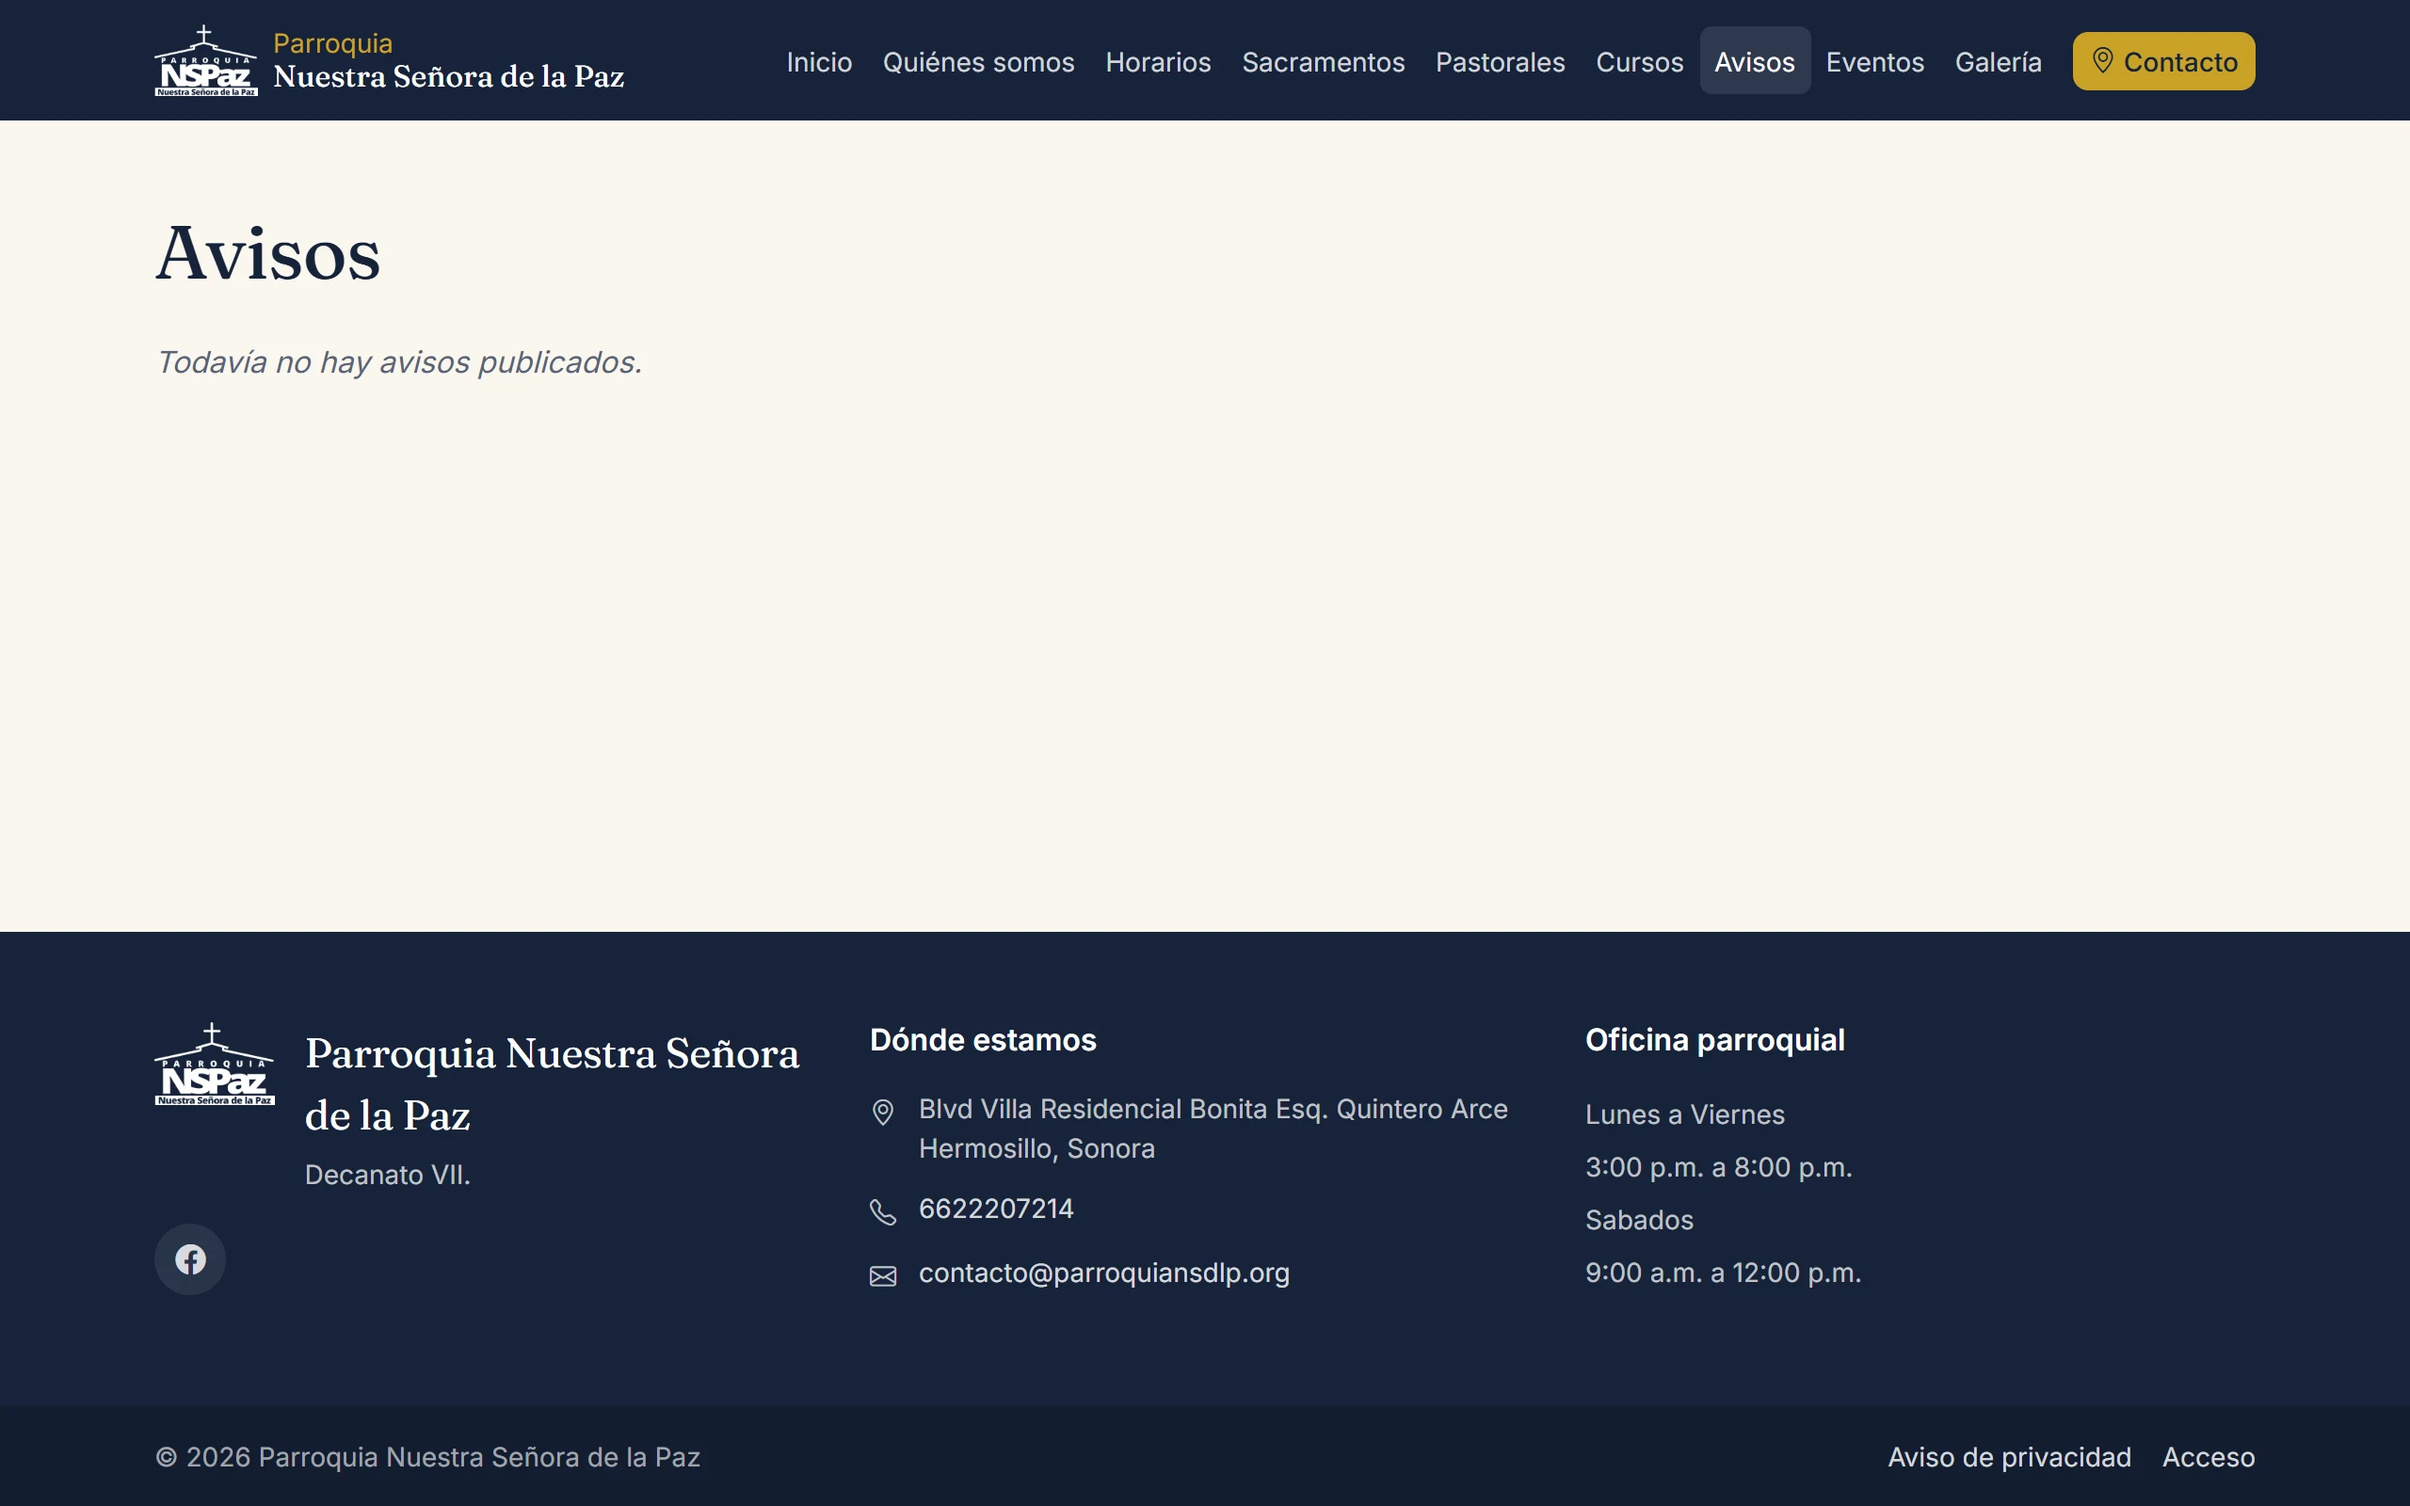
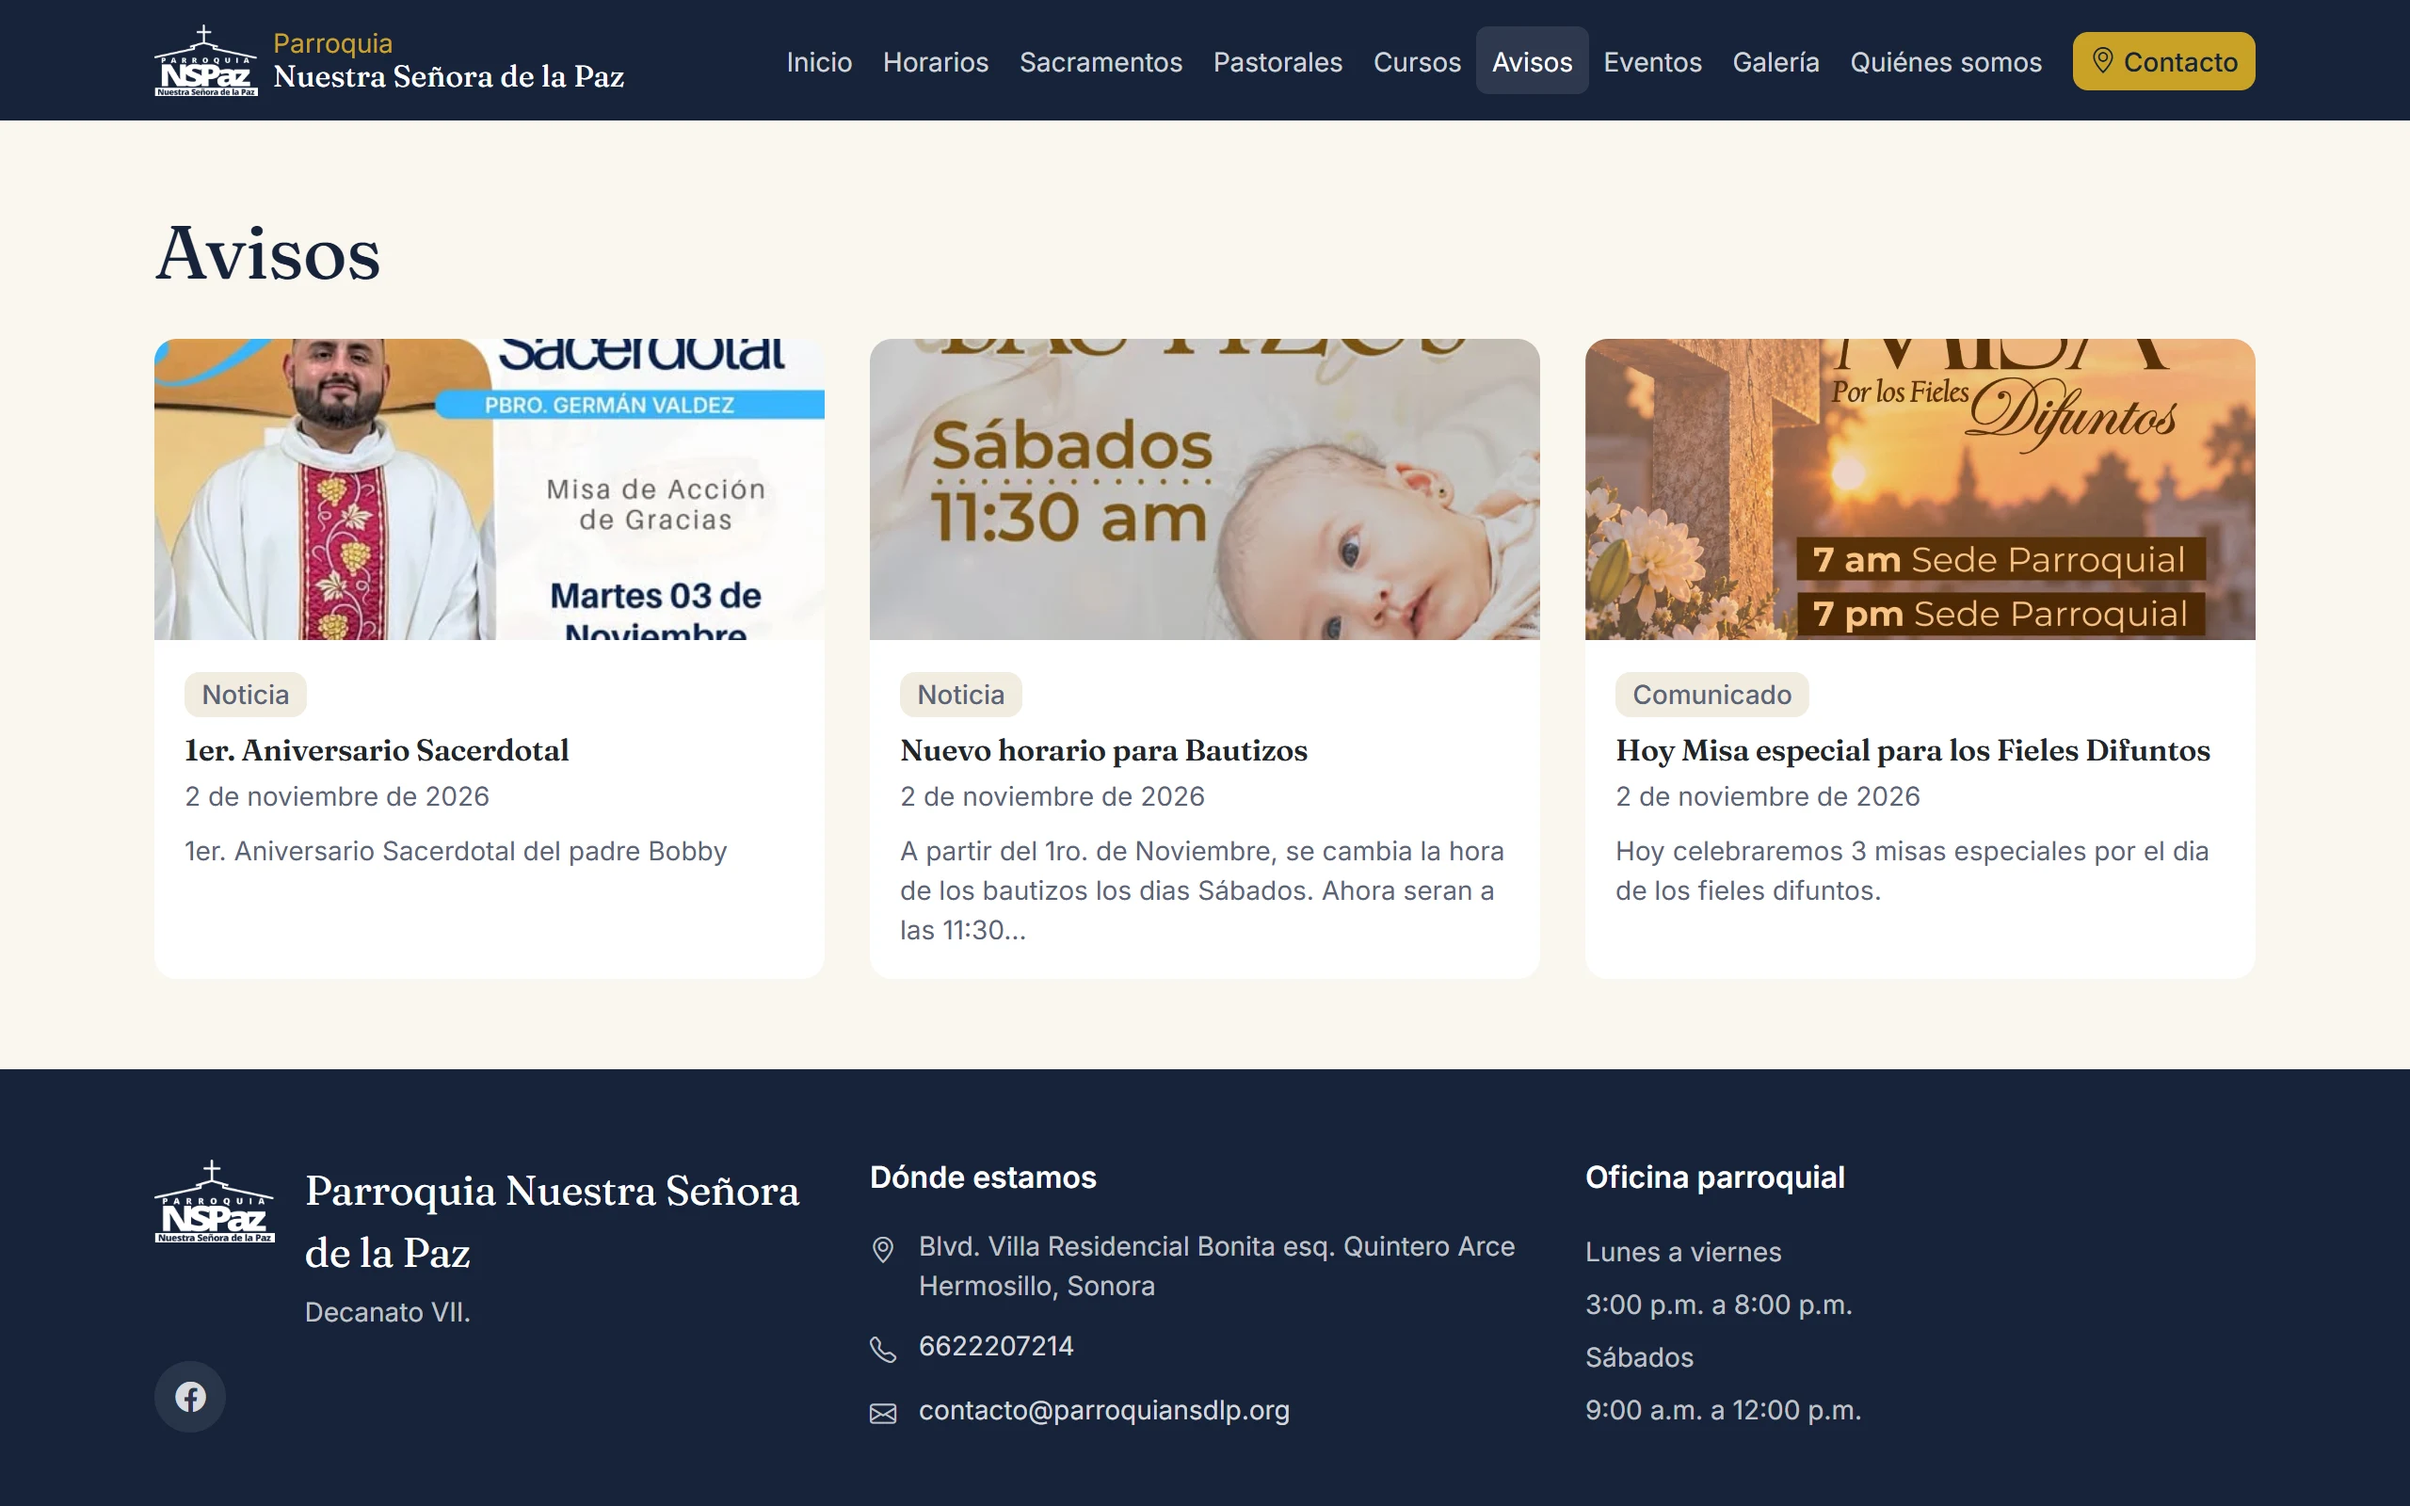
Manual: el editor con imágenes y los avisos en la cabecera
- Cap. 19: sección nueva «El editor de texto», con su barra y los pasos
  para insertar una imagen (formatos, 4 MB, descripción, qué hacer si el
  botón no responde).
- Cap. 1: el recuadro de avisos de la cabecera, con su captura; la franja
  de abajo ya no lleva avisos; la imagen del aviso abierto se ve completa.
- Cap. 5: la imagen del aviso (miniatura en la portada, completa al
  abrirlo, en el sitio y en el panel) y el contenido con imágenes.
- Capturas nuevas: publico-inicio-avisos, y al día publico-inicio,
  publico-inicio-completa y publico-avisos. Word y PDF regenerados.
- capturas_manual.js: una página completa más alta que el límite de WebP
  (16 383 px) salía como archivo de 0 bytes sin error; ahora se toma a
  resolución normal y una captura vacía detiene el guion.
- El recuadro de avisos ya no carga sus miniaturas en diferido: está
  arriba de todo y la última llegaba tarde.

diff --git a/herramientas/capturas_manual.js b/herramientas/capturas_manual.js
@@ -334,12 +334,31 @@ async function capturar(page, pantalla) {
     if (FORMATO === 'webp') { opciones.quality = 88; }
     if (pantalla.completa)  { opciones.fullPage = true; }
 
+    // WebP no admite imágenes de más de 16 383 píxeles por lado: una página
+    // completa más alta que eso a doble resolución sale como un archivo de
+    // 0 bytes, sin error. La portada pasó de ese alto en noviembre de 2026.
+    // En ese caso esa captura se toma a resolución normal.
+    const LIMITE_WEBP = 16383;
+    let ventanaAjustada = false;
+    if (pantalla.completa && FORMATO === 'webp') {
+        const alto = await page.evaluate(() => document.documentElement.scrollHeight);
+        if (alto * VENTANA.deviceScaleFactor > LIMITE_WEBP) {
+            await page.setViewport({ ...VENTANA, deviceScaleFactor: 1 });
+            ventanaAjustada = true;
+        }
+    }
+
     if (pantalla.recorte) {
         const elemento = await page.$(pantalla.recorte);
         if (!elemento) { throw new Error('No se encontró el recorte ' + pantalla.recorte); }
         await elemento.screenshot(opciones);
     } else {
         await page.screenshot(opciones);
+    }
+
+    if (ventanaAjustada) { await page.setViewport(VENTANA); }
+    if (fs.statSync(destino).size === 0) {
+        throw new Error('La captura salió vacía: ' + destino);
     }
 
     // Para deshacer lo que la pantalla haya dejado montado —una impersonación,

diff --git a/herramientas/capturas_manual_pantallas.js b/herramientas/capturas_manual_pantallas.js
@@ -162,6 +162,25 @@ module.exports = [
         recorte: '#horarios',
     },
     {
+        // La cabecera con el recuadro de avisos (lema, presentación y avisos
+        // con su miniatura). Las columnas entran con una animación de
+        // aparición: se dejan ya en su sitio antes de disparar.
+        id: 'publico-inicio-avisos',
+        titulo: 'El recuadro de avisos en la cabecera de la portada',
+        url: '/',
+        sesion: 'publico',
+        espera: '.portada-texto',
+        recorte: '.portada-texto',
+        antes: async (page) => {
+            await page.evaluate(() => document.querySelectorAll('.aparece').forEach((e) => {
+                e.style.animation = 'none';
+                e.style.opacity = '1';
+                e.style.transform = 'none';
+                e.style.filter = 'none';
+            }));
+        },
+    },
+    {
         id: 'publico-menu',
         titulo: 'Menú del sitio',
         url: '/',

diff --git a/modules/inicio/views/publico/avisos_portada.php b/modules/inicio/views/publico/avisos_portada.php
@@ -28,7 +28,7 @@ $iconosTipo = [
             <a href="<?= e(url_publica('avisos', ['slug' => $aviso['slug']])) ?>" class="aviso-mini">
                 <?php if (!empty($aviso['imagen'])): ?>
                 <img src="<?= e(url_activo($aviso['imagen'])) ?>" alt="" class="aviso-mini-foto"
-                     width="64" height="64" loading="lazy" decoding="async">
+                     width="64" height="64" decoding="async">
                 <?php else: ?>
                 <span class="aviso-mini-foto aviso-mini-icono" aria-hidden="true">
                     <i class="bi <?= e($iconosTipo[$aviso['tipo']] ?? 'bi-megaphone') ?>"></i>

diff --git a/docs/manual/01-el-sitio-publico.md b/docs/manual/01-el-sitio-publico.md
@@ -46,17 +46,30 @@ sencillamente no aparece, sin dejar hueco. De arriba abajo:
 Campana al fondo. Debajo, a todo lo ancho y en letra grande, el lema *Una
 comunidad en camino hacia la santidad*, y bajo él dos columnas: a la izquierda
 el decanato, la arquidiócesis y las sedes de la parroquia («Una parroquia, tres
-sedes: Villa Bonita, San Pío y Jesús el Señor»); a la derecha una presentación
+sedes: Villa Bonita, San Pío y Jesús el Señor»); en medio una presentación
 breve y dos botones, **Ver horarios de misa** y **Requisitos de sacramentos**,
-que bajan a esas franjas de la misma portada.
+que bajan a esas franjas de la misma portada; y a la derecha el recuadro de
+**Avisos**.
+
+![El recuadro de avisos en la cabecera de la portada](img/publico-inicio-avisos.webp)
+
+**El recuadro de avisos.** Los cuatro avisos más recientes que estén publicados
+en el sitio y vigentes, cada uno con una miniatura de su imagen como referencia
+—o el ícono de su tipo, si no tiene—, su fecha y su título. Al tocar cualquiera
+se abre el aviso completo, y arriba del recuadro está **Ver todos**. Es lo
+primero que se lee al entrar, así que es el lugar de lo urgente: un cambio de
+horario, una misa especial. Cuando no hay ningún aviso vigente, el recuadro no
+aparece y la cabecera vuelve a sus dos columnas. En el celular, el recuadro
+baja debajo de los botones.
 
 La presentación de esa cabecera es la del bloque **Presentación**: mientras esté
 vacío, sale un texto de bienvenida fijo. En cuanto se sube al menos una
 diapositiva al carrusel, ese espacio se convierte en un carrusel de fotos que
-van pasando solas, y las próximas misas bajan justo debajo.
+van pasando solas, y las próximas misas y el recuadro de avisos bajan justo
+debajo, lado a lado.
 
-> **Se llena desde:** Contenido → Textos del sitio (Presentación) y Comunicación →
-> Carrusel. Las sedes, desde Parroquia → Sede y centros.
+> **Se llena desde:** Contenido → Textos del sitio (Presentación), Comunicación →
+> Avisos y Comunicación → Carrusel. Las sedes, desde Parroquia → Sede y centros.
 
 **Próximas misas.** Al pie de la cabecera, las tres siguientes, calculadas desde
 los horarios cargados y siempre en hora de Hermosillo —lo dice una nota al
@@ -120,12 +133,12 @@ uno con su día en un recuadro, el horario y la sede. Los de la fiesta patronal
 
 > **Se llena desde:** Comunicación → Eventos.
 
-**Cursos, avisos y Facebook.** Los **Próximos cursos**, los tres **Avisos
-recientes** publicados en el sitio, las publicaciones recientes de la página de
-Facebook de la parroquia —tal cual las muestra Facebook, sin copiar nada a
-mano— y las **Ligas de interés**.
+**Cursos y Facebook.** Los **Próximos cursos**, las publicaciones recientes de
+la página de Facebook de la parroquia —tal cual las muestra Facebook, sin
+copiar nada a mano— y las **Ligas de interés**. Los avisos ya no van aquí:
+subieron al recuadro de la cabecera.
 
-> **Se llena desde:** Comunicación → Cursos, Comunicación → Avisos,
+> **Se llena desde:** Comunicación → Cursos,
 > Administración → Configuración (la dirección de Facebook) y Contenido →
 > Textos del sitio (Ligas de interés).
 
@@ -272,7 +285,9 @@ correo ni se pierden.
 
 Los avisos publicados, en tarjetas, del más reciente al más viejo, con su
 imagen, su tipo, su fecha y las primeras líneas. Al entrar a uno se lee
-completo.
+completo, y su imagen se ve **entera, sin recortar**: nunca más alta que la
+pantalla, así que un cartel vertical cabe completo. Al tocarla se abre en su
+tamaño original. Los más recientes salen también en el recuadro de la portada.
 
 Aquí hay algo importante que el capítulo de Avisos explica a fondo: **no todo
 aviso llega a esta página**. Una pastoral puede publicar un aviso solo hacia

diff --git a/docs/manual/05-avisos.md b/docs/manual/05-avisos.md
@@ -59,7 +59,8 @@ aparece.
   del contenido, así que no es obligatorio pero casi siempre queda mejor
   escribirlo.
 - **Contenido.** El aviso completo, con el editor de texto: negritas, listas,
-  enlaces.
+  enlaces y también imágenes dentro del texto, con el botón **Insertar imagen**
+  (ver el capítulo 19).
 
 ### Lo que decide dónde aparece
 
@@ -91,8 +92,12 @@ aparece.
 
 ### Lo demás
 
-- **Imagen.** La foto de la tarjeta, en el listado del sitio y en el tablón del
-  panel. Si no pones ninguna, se dibuja un fondo con el título.
+- **Imagen.** La foto del aviso. Sale en la tarjeta del listado del sitio, en
+  el tablón del panel y, en miniatura, en el recuadro de avisos de la portada.
+  Al abrir el aviso se ve **completa, sin recortar** y sin pasar del alto de la
+  pantalla, así que sirve igual un cartel vertical que una foto apaisada. Si no
+  pones ninguna, la tarjeta dibuja un fondo con el título y la miniatura de la
+  portada, el ícono del tipo de aviso.
 - **Boletín en PDF.** Solo para los de tipo boletín: el archivo que la gente
   descarga. Al editar aparece un enlace para verlo y una palomita para
   quitarlo.
@@ -112,12 +117,17 @@ Según el escalón:
   la pastoral es una **comisión**, les llega también a las pastorales que
   agrupa.
 - **En la página:** además de lo anterior, sale en la sección Avisos del sitio
-  y, si es de los más recientes, en la portada.
+  y, si está entre los cuatro más recientes, en el **recuadro de avisos de la
+  cabecera de la portada**, lo primero que se ve al entrar. Ahí se queda
+  mientras esté vigente: al pasar su fecha «visible hasta» se retira solo.
+
+![El recuadro de avisos en la cabecera de la portada](img/publico-inicio-avisos.webp)
 
 ## Leer un aviso
 
-Desde el listado, el botón del ojo abre el aviso completo, con su imagen, su
-estado y, si ya está en el sitio, un enlace para verlo ahí. Abrirlo es lo que
+Desde el listado, el botón del ojo abre el aviso completo, con su imagen
+entera —igual que la ve el visitante; al tocarla se abre en tamaño original—,
+su estado y, si ya está en el sitio, un enlace para verlo ahí. Abrirlo es lo que
 lo marca como leído para ti: baja tu contador de la campana y no vuelve a
 subir.
 

diff --git a/docs/manual/19-paginas-bloques-y-evangelio.md b/docs/manual/19-paginas-bloques-y-evangelio.md
@@ -8,6 +8,41 @@ distinta:
 - **Menú del sitio**: qué va en el menú de arriba, en qué orden y con qué nombre.
 - **Evangelio del día**: la lectura y la reflexión de cada día.
 
+## El editor de texto
+
+Los textos largos del panel —páginas, textos del sitio, avisos, eventos,
+cursos, sacramentos, la ficha de las pastorales y el evangelio— se escriben
+con el mismo editor. Su barra tiene, de izquierda a derecha:
+
+- **Negrita, cursiva y subrayado.**
+- **Título, subtítulo y párrafo normal**, para darle orden a un texto largo.
+- **Lista con puntos y lista numerada.**
+- **Insertar enlace** (primero se selecciona el texto) y **quitar enlace**.
+- **Insertar imagen.**
+- **Quitar el formato**, para dejar un pedazo como texto simple.
+
+Al pegar texto copiado de Word o de otra página se pega solo el texto, sin sus
+colores ni tipos de letra: el sitio usa los suyos.
+
+### Insertar una imagen
+
+1. Pon el cursor donde quieres la imagen.
+2. Toca el botón **Insertar imagen** (el del cuadrito con montaña) y elige la
+   foto de tu computadora o de tu celular.
+3. El panel pide una **descripción corta**. Es opcional, pero conviene: es lo
+   que escucha quien usa un lector de pantalla y lo que se muestra si la imagen
+   no carga. Algo como «Cartel de la kermés 2026».
+4. La imagen se sube y aparece en el texto. Sigue escribiendo debajo.
+5. **Guarda** el formulario, como siempre.
+
+Se aceptan JPG, PNG, WebP y GIF de hasta **4 MB**; si la foto es más ancha de
+1600 puntos, el sistema la reduce sola. En el sitio la imagen se ve completa,
+centrada, sin pasar del ancho del texto ni del alto de la pantalla. Para
+quitarla, se selecciona dentro del editor y se borra como cualquier texto.
+
+> **Si el botón no hace nada,** recarga la página del formulario: el navegador
+> guarda una copia del editor y a veces tarda en enterarse de que cambió.
+
 ## Textos del sitio
 
 ![Los textos del sitio](img/bloques-lista.webp)
